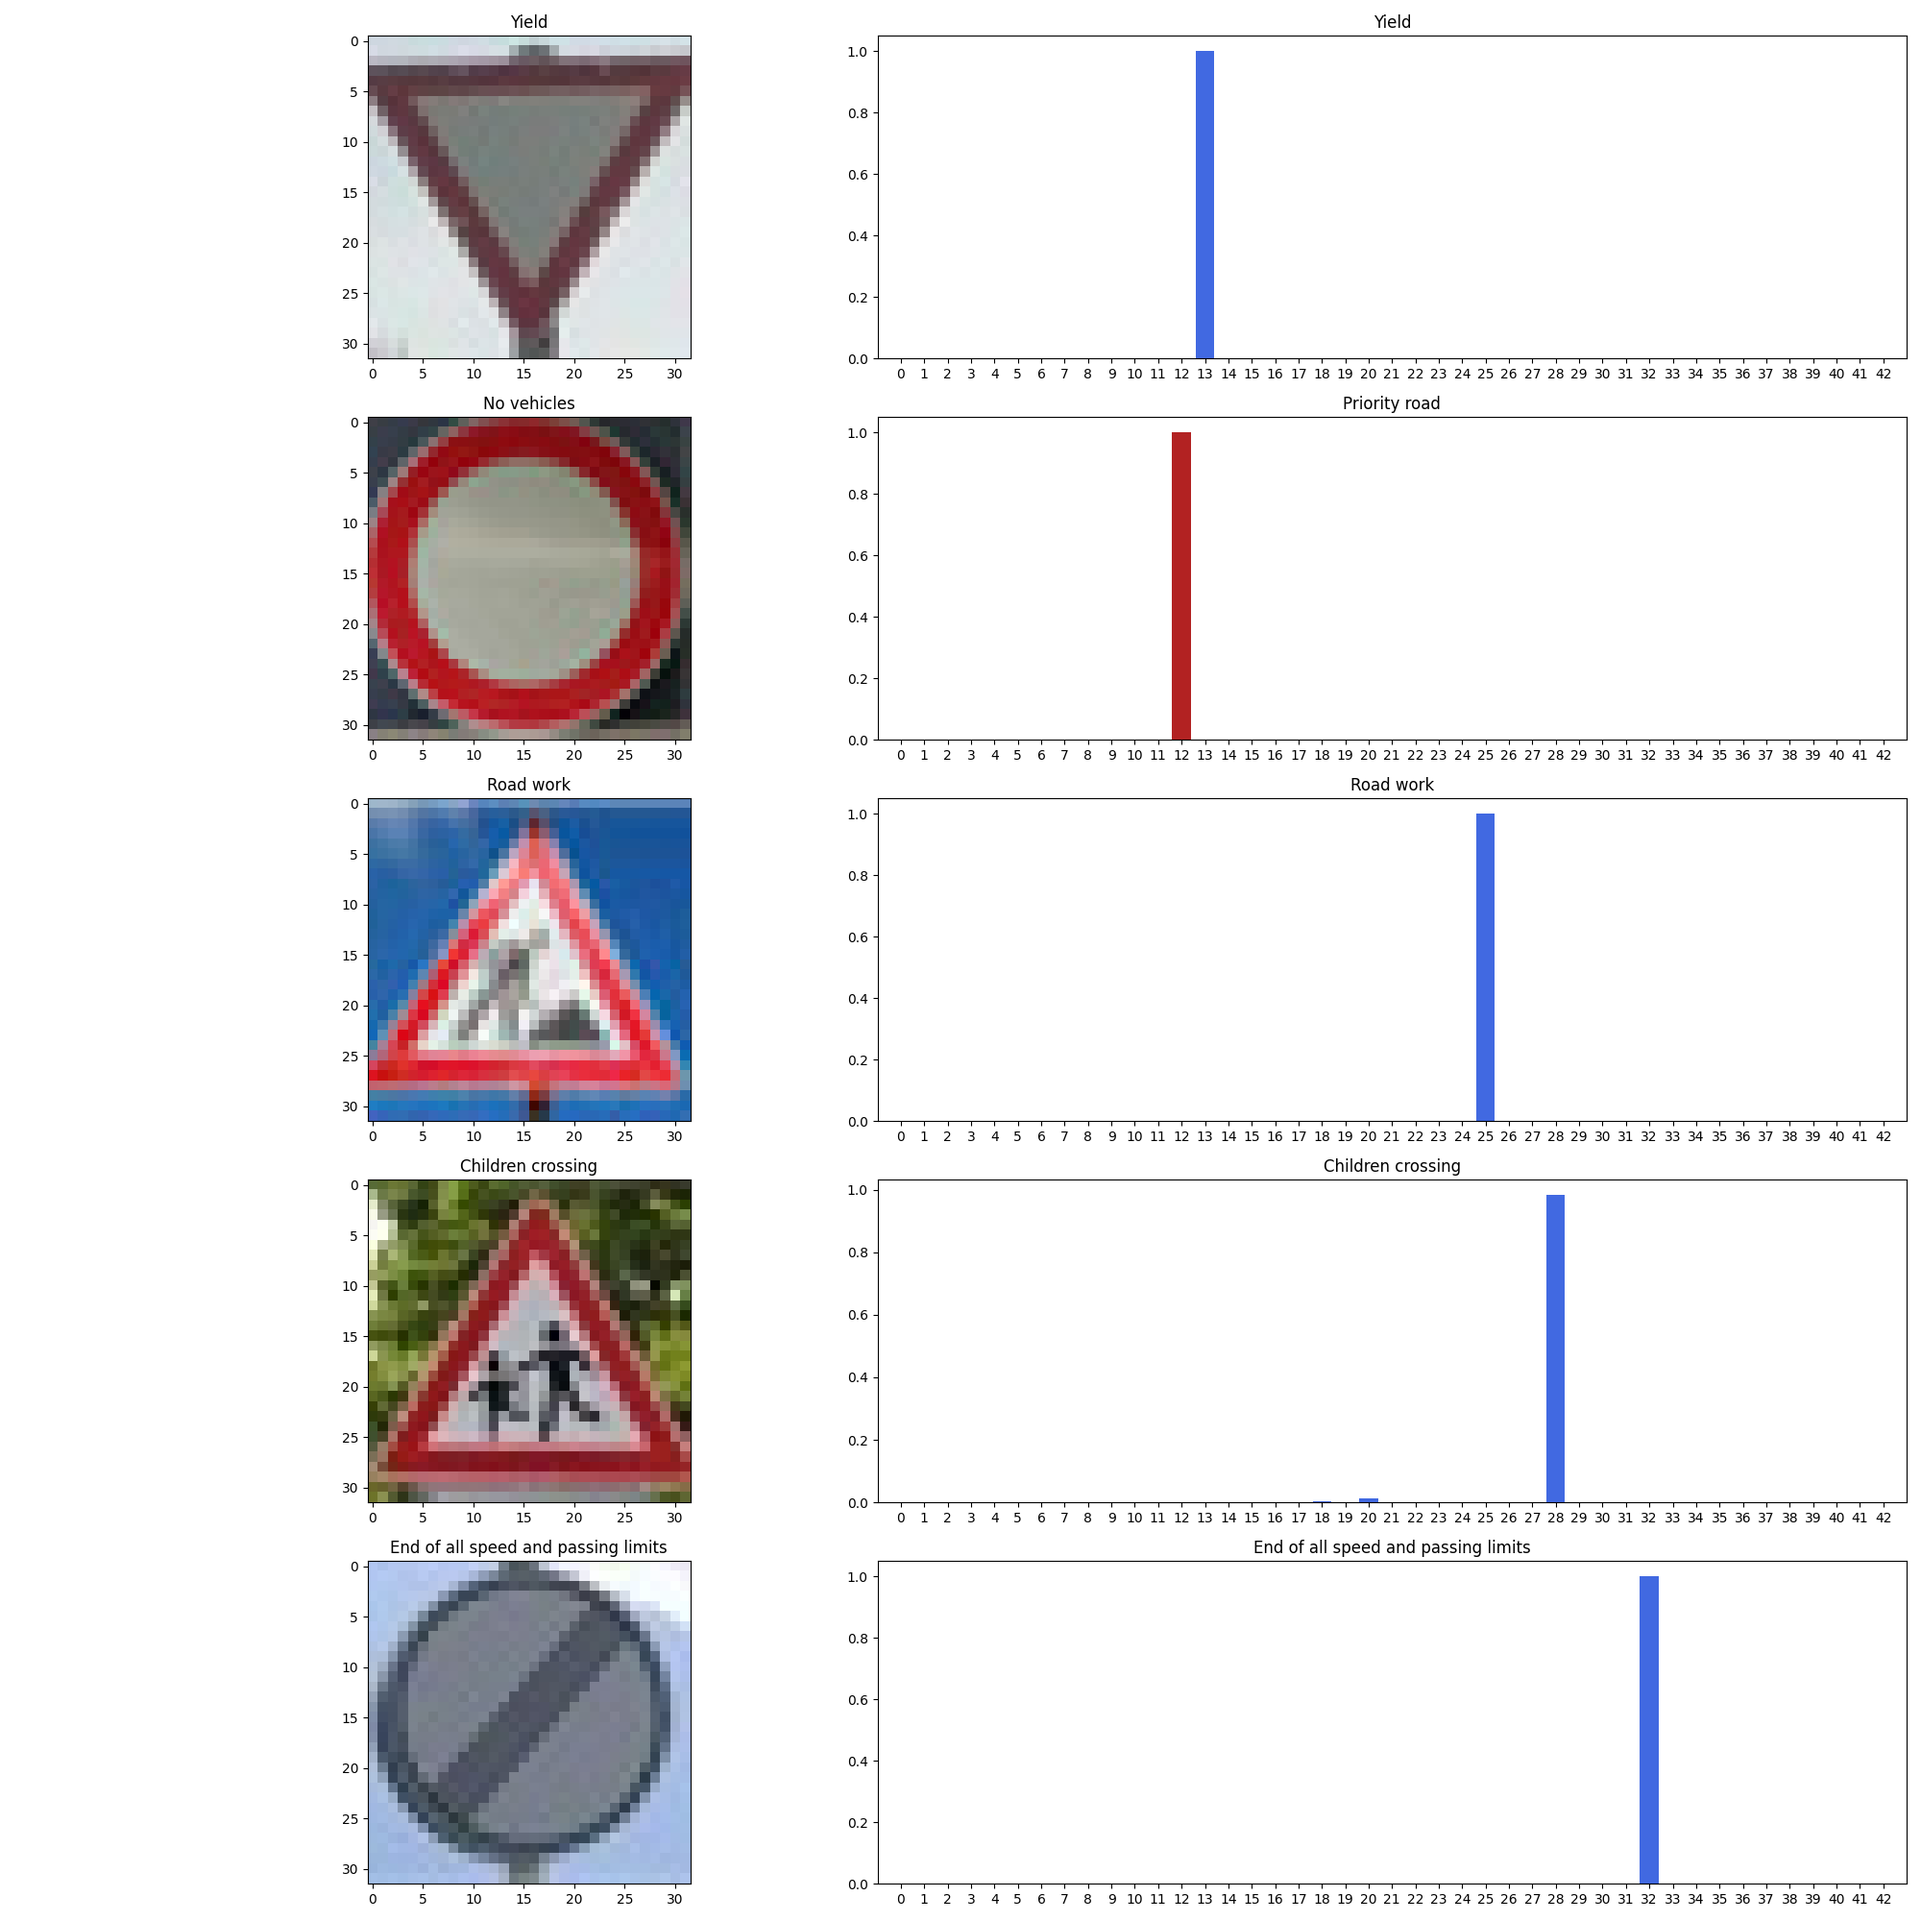
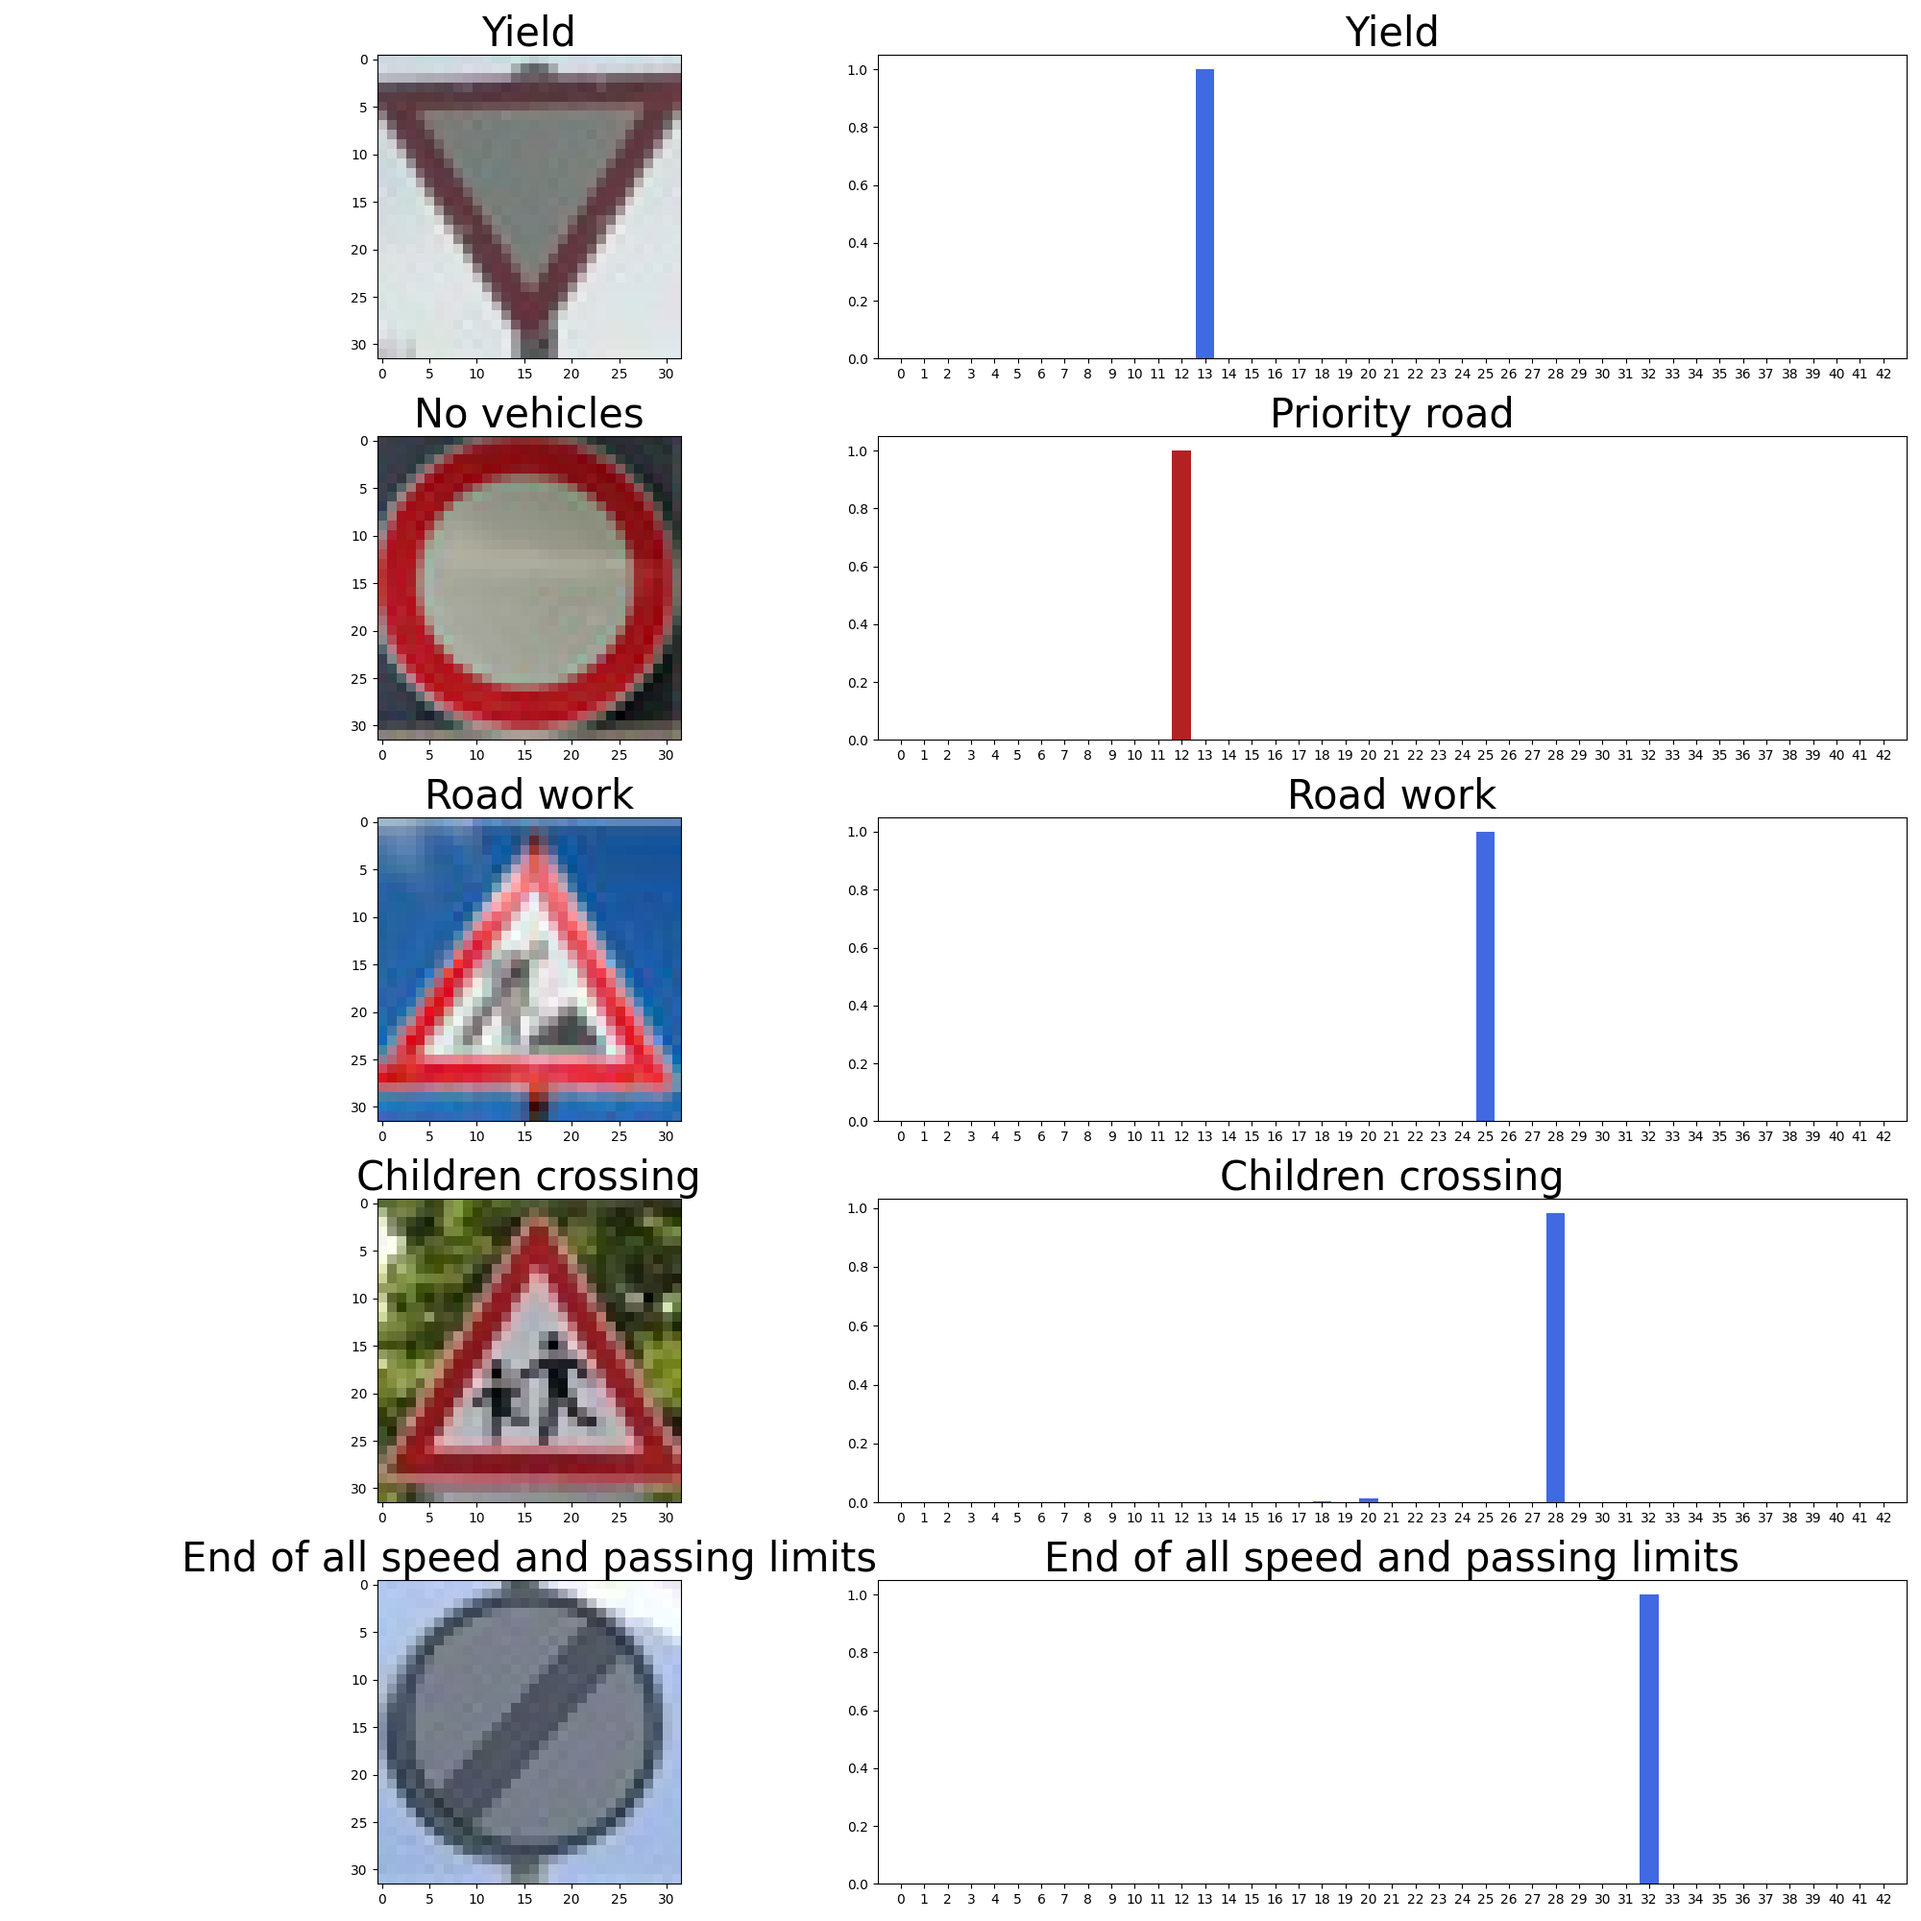
5/10

diff --git a/test_02.py b/test_02.py
@@ -79,12 +79,12 @@ else:
         pred = name[predN_pt[i], 1]
         c = 'royalblue' if real==pred else 'firebrick'
         ax[i,0].imshow(cv2.cvtColor(img[i,...], cv2.COLOR_BGR2RGB))
-        ax[i,0].set_title(real)
+        ax[i,0].set_title(real, size=30)
         ax[i,1].bar(barx, pt[i,...], color=c)
         ax[i,1].set_xticks(barx)
         ax[i,1].set_xlim(-1, 43)
         ax[i,1].set_xticklabels(barx)
-        ax[i,1].set_title(pred)
+        ax[i,1].set_title(pred, size=30)
     plt.tight_layout()
     plt.savefig(os.path.join(sP2, 'pt_result.png'))
 
@@ -94,11 +94,11 @@ else:
         pred = name[predN_tf[i], 1]
         c = 'royalblue' if real==pred else 'firebrick'
         ax[i,0].imshow(cv2.cvtColor(img[i,...], cv2.COLOR_BGR2RGB))
-        ax[i,0].set_title(real)
+        ax[i,0].set_title(real, size=30)
         ax[i,1].bar(barx, tf[i,...], color=c)
         ax[i,1].set_xticks(barx)
         ax[i,1].set_xlim(-1, 43)
         ax[i,1].set_xticklabels(barx)
-        ax[i,1].set_title(pred)
+        ax[i,1].set_title(pred, size=30)
     plt.tight_layout()
     plt.savefig(os.path.join(sP2, 'tf_result.png'))    

diff --git a/README.md b/README.md
@@ -132,10 +132,14 @@ Keras
 之後直接執行`python test_02.py`出圖，並以藍色與紅色長條圖區分預測正確或錯誤。
 Pytorch
 
-<img src=https://i.imgur.com/ODCU56O.png>
+<img src=https://i.imgur.com/bS97epM.png>
 
 Keras
 
-<img src=https://i.imgur.com/TOQ9NnU.png>
+<img src=https://i.imgur.com/dsTCrul.png>
 
 ### 程式碼註解
+分作pytorch以及keras進行說明。
+
+**1. Pytorch**
+**(1) **
